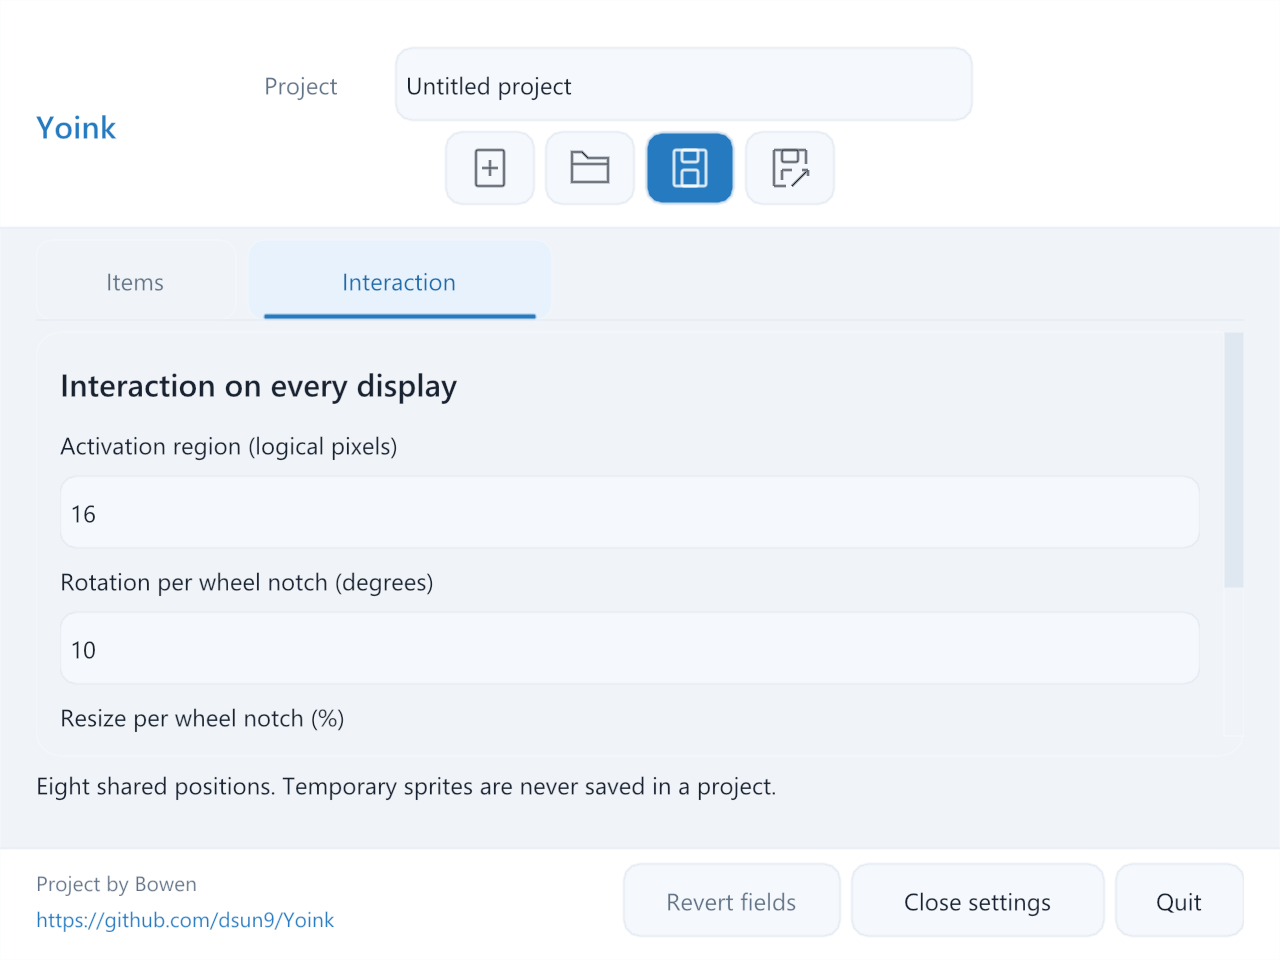
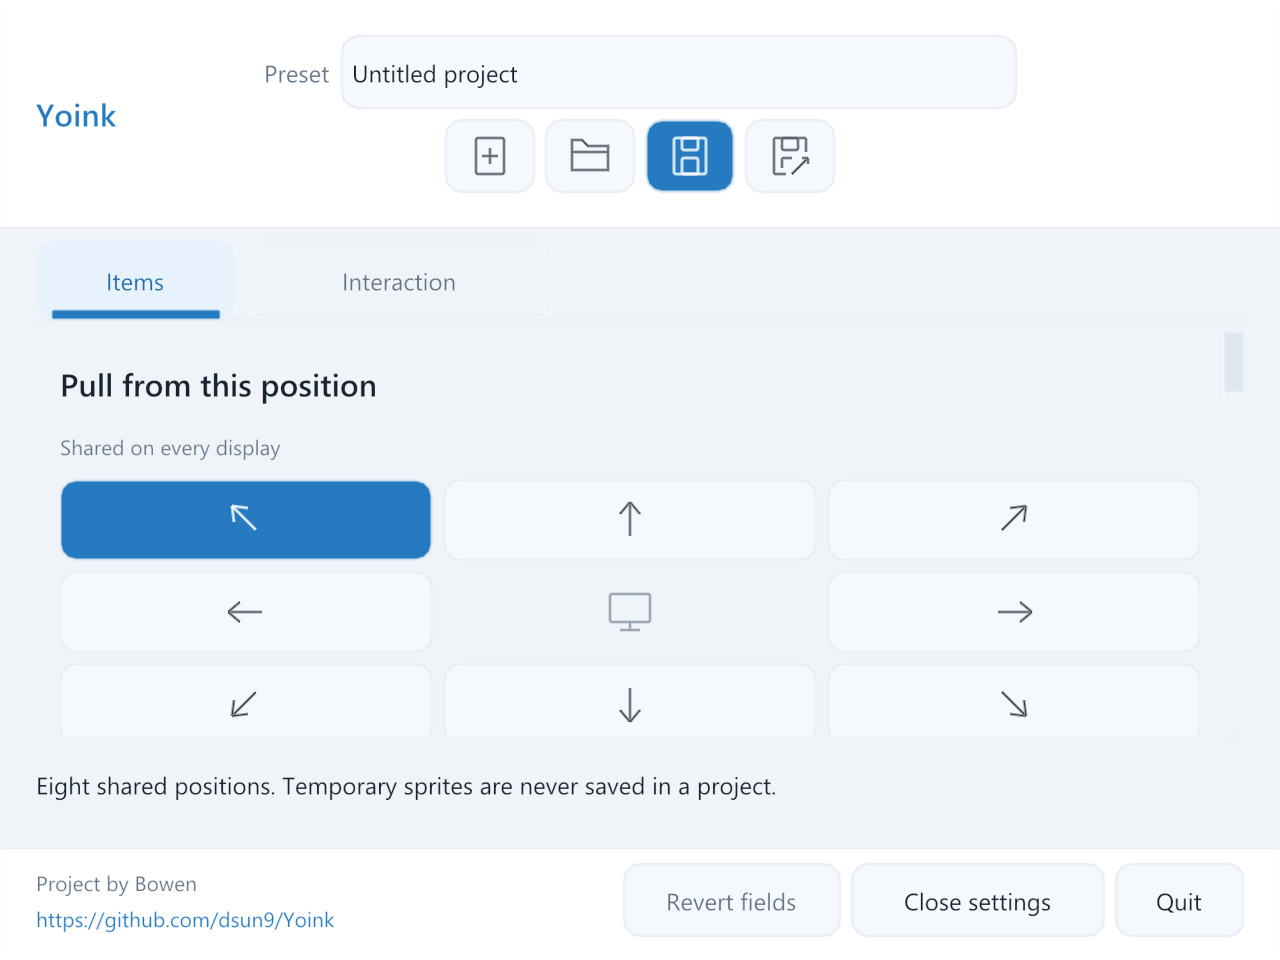
Refine preset toolbar and tab focus styling

diff --git a/tests/platform/test_settings_smoke.c b/tests/platform/test_settings_smoke.c
@@ -1992,6 +1992,57 @@ static void hidden_chrome_diagnostics(void) {
   pp_app_destroy(app); app = NULL;
   puts("PASS footer remains visible and draft recovery clickable with name error, Unicode notice and page errors at minimum size across three scales.");
 }
+static void check_tab_edges(SDL_Surface *surface, PPRect bounds) {
+  double sx = surface->w / settings->backend->width;
+  double sy = surface->h / settings->backend->height;
+  const PPVec2 probes[] = {
+      {bounds.x + bounds.w / 2, bounds.y + .5},
+      {bounds.x + .5, bounds.y + bounds.h / 2},
+      {bounds.x + bounds.w - .5, bounds.y + bounds.h / 2}};
+  for (int edge = 0; edge < 3; edge++) {
+    Uint8 r, g, b, a;
+    CHECK(SDL_ReadSurfacePixel(surface, (int)(probes[edge].x * sx),
+        (int)(probes[edge].y * sy), &r, &g, &b, &a));
+    printf("Tab edge %d: RGB=%u/%u/%u\n", edge, r, g, b);
+    CHECK(!(b > r + 80 && g > r + 40));
+  }
+}
+static void check_toolbar_alignment(SDL_Surface *surface, PPRect name,
+                                    PPRect first, PPRect last) {
+  double sx = surface->w / settings->backend->width;
+  double sy = surface->h / settings->backend->height;
+  Uint8 r, g, b, a;
+  int header_bottom = (int)(2 * sy);
+  while (header_bottom < surface->h) {
+    CHECK(SDL_ReadSurfacePixel(surface, (int)(8 * sx), header_bottom,
+                              &r, &g, &b, &a));
+    if (r < 252 || g < 252 || b < 252) break;
+    header_bottom++;
+  }
+  /* Measure the visible label's ink, rather than assuming a fixed label box. */
+  int label_left = surface->w, label_right = -1;
+  for (int y = (int)(name.y * sy); y < (name.y + name.h) * sy; y++)
+    for (int x = (int)(120 * sx); x < name.x * sx; x++) {
+      CHECK(SDL_ReadSurfacePixel(surface, x, y, &r, &g, &b, &a));
+      if (r < 180 && g < 190 && b < 210) {
+        if (x < label_left) label_left = x;
+        if (x > label_right) label_right = x;
+      }
+    }
+  CHECK(label_right >= label_left);
+  double top_padding = name.y;
+  double bottom_padding = header_bottom / sy - (last.y + last.h);
+  double label_gap = name.x - (label_right + 1) / sx;
+  double action_gap = first.x - (name.x + name.w);
+  printf("Toolbar: top/bottom padding=%.1f/%.1f, label gap=%.1f, action gap=%.1f\n",
+         top_padding, bottom_padding, label_gap, action_gap);
+  CHECK(fabs(top_padding - bottom_padding) <= 1);
+  CHECK(top_padding >= 12);
+  CHECK(label_gap >= 4 && label_gap <= 10);
+  if (first.y == name.y) CHECK(action_gap >= 4 && action_gap <= 10);
+  double group_right = first.y == name.y ? last.x + last.w : name.x + name.w;
+  CHECK(fabs((label_left / sx + group_right) / 2 - settings->backend->width / 2) <= 2);
+}
 static void hidden_settings_chrome(void) {
   CHECK(pp_app_create(&app, &(PPAppOptions){"", false}, &error));
   const float scales[] = {1, 1.5f, 2};
@@ -2005,6 +2056,8 @@ static void hidden_settings_chrome(void) {
     hidden_settle();
     for (int page = 0; page < 2; page++) {
       hidden_click(page ? "tab-interaction" : "tab-items"); hidden_settle();
+      pp_ui_focus(settings->backend, page ? "tab-interaction" : "tab-items");
+      hidden_settle();
       char name[96];
       snprintf(name, sizeof(name), "settings-chrome-%s-%s-%d", size_names[size],
                page ? "interaction" : "items", (int)(scales[density] * 100));
@@ -2020,13 +2073,6 @@ static void hidden_settings_chrome(void) {
       CHECK(pp_ui_control_rect(settings->backend, "quit", &quit));
       printf("Chrome %s: project y=%.0f, tabs w=%.0f/%.0f, footer w=%.0f/%.0f/%.0f\n",
              size_names[size], project.y, items.w, interaction.w, revert.w, close.w, quit.w);
-      CHECK(project.y >= 20);
-      /* Include the visible Project prefix and dirty-marker space in the
-       * top-row extent. Wrapped icons must share that row's center. */
-      double group_left = project.x - 66;
-      double group_right = first.y == project.y ? last.x + last.w
-                                               : project.x + project.w + 22;
-      CHECK(fabs((group_left + group_right) / 2 - sizes[size][0] / 2.0) <= 2);
       CHECK(project.w <= 550);
       if (first.y > project.y)
         CHECK(fabs((first.x + last.x + last.w) / 2 - sizes[size][0] / 2.0) <= 2);
@@ -2047,6 +2093,9 @@ static void hidden_settings_chrome(void) {
        * into the strip rather than drawing an ordinary button border. */
       PPRect selected = page ? interaction : items;
       PPRect inactive = page ? items : interaction;
+      check_tab_edges(surface, selected);
+      check_tab_edges(surface, inactive);
+      check_toolbar_alignment(surface, project, first, last);
       Uint8 r, g, b, a;
       CHECK(SDL_ReadSurfacePixel(surface,
           (int)((selected.x + selected.w / 2) * surface->w / settings->backend->width),
@@ -2069,6 +2118,15 @@ static void hidden_settings_chrome(void) {
       CHECK(trailing_ink);
       SDL_DestroySurface(surface);
       pp_ui_focus(settings->backend, page ? "tab-items" : "tab-interaction");
+      hidden_settle();
+      char focused_name[112];
+      snprintf(focused_name, sizeof(focused_name), "%s-focused", name);
+      capture(focused_name);
+      snprintf(path, sizeof(path), PP_SMOKE_OUTPUT "/%s.bmp", focused_name);
+      surface = SDL_LoadBMP(path);
+      CHECK(surface);
+      check_tab_edges(surface, inactive);
+      SDL_DestroySurface(surface);
       hidden_key(PP_KEY_ENTER, 0); hidden_settle();
       CHECK(settings->page == (page ? PP_SETTINGS_ITEMS : PP_SETTINGS_INTERACTION));
       CHECK(!settings->failed);
@@ -2077,7 +2135,7 @@ static void hidden_settings_chrome(void) {
   pp_settings_destroy(settings); settings = NULL;
   }
   pp_app_destroy(app); app = NULL;
-  puts("PASS centered padded project group, tab appearance/keyboard switching and complete linked credit beside right-aligned footer at four sizes and three scales.");
+  puts("PASS centered compact preset group, borderless focused tabs/keyboard switching and complete linked credit beside right-aligned footer at four sizes and three scales.");
 }
 static void hidden_compact_toolbar(void) {
   CHECK(pp_app_create(&app, &(PPAppOptions){"", false}, &error));

diff --git a/src/ui/project_actions.c b/src/ui/project_actions.c
@@ -184,10 +184,22 @@ void pp_project_actions(PPSettings *settings) {
   float row_height = pp_ui_theme.row_height;
   float padding = pp_ui_theme.control;
   float spacing = pp_ui_theme.compact;
+  const struct nk_user_font *font = ctx->style.font;
+  const char *label = "Preset";
+  float label_width = ceilf(font->width(font->userdata, font->height, label,
+                                      (int)strlen(label))) + 2 * ctx->style.text.padding.x;
+  bool dirty = pp_app_dirty(settings->app);
+  float marker_width = dirty ? ceilf(font->width(font->userdata, font->height, "*", 1)) +
+                                  2 * ctx->style.text.padding.x : 0;
+  float marker_space = dirty ? spacing + marker_width : 0;
+  float actions_width = 4 * 44 + 3 * spacing;
   float group_height = row_height + (wrapped ? row_height + spacing : 0);
   nk_layout_space_begin(ctx, NK_STATIC, group_height + 2 * padding, 8);
-  float toolbar_height = nk_layout_space_to_screen(ctx, nk_vec2(0, 0)).y +
-                         group_height + 2 * padding;
+  float origin_y = nk_layout_space_to_screen(ctx, nk_vec2(0, 0)).y;
+  float toolbar_height = origin_y + group_height + 2 * padding;
+  /* The painted header starts at the window edge, above the layout's inset.
+   * Center in that entire header rather than adding the inset twice. */
+  float group_y = (toolbar_height - group_height) / 2 - origin_y;
   struct nk_command_buffer *canvas = nk_window_get_canvas(ctx);
   struct nk_rect clip = canvas->clip;
   nk_push_scissor(canvas, nk_rect(0, 0, ui->width, ui->height));
@@ -196,16 +208,17 @@ void pp_project_actions(PPSettings *settings) {
   nk_stroke_line(canvas, 0, toolbar_height, ui->width,
                   toolbar_height, 1, pp_ui_theme.border);
   nk_push_scissor(canvas, clip);
-  nk_layout_space_push(ctx, nk_rect(0, padding + (group_height - row_height) / 2,
+  nk_layout_space_push(ctx, nk_rect(0, group_y + (group_height - row_height) / 2,
                                     100, row_height));
   nk_style_push_font(ctx, &ui->heading_font->handle);
   nk_label_colored(ctx, "Yoink", NK_TEXT_LEFT, pp_ui_theme.accent);
   nk_style_pop_font(ctx);
-  nk_layout_space_push(ctx, nk_rect(group_x, padding, 60, row_height));
-  nk_label_colored(ctx, "Project", NK_TEXT_LEFT, pp_ui_theme.muted);
-  float name_width = group_width - (wrapped ? 88 : 294);
-  float name_x = group_x + 60 + spacing;
-  nk_layout_space_push(ctx, nk_rect(name_x, padding, name_width, row_height));
+  nk_layout_space_push(ctx, nk_rect(group_x, group_y, label_width, row_height));
+  nk_label_colored(ctx, label, NK_TEXT_LEFT, pp_ui_theme.muted);
+  float name_width = group_width - label_width - spacing - marker_space -
+                     (wrapped ? 0 : spacing + actions_width);
+  float name_x = group_x + label_width + spacing;
+  nk_layout_space_push(ctx, nk_rect(name_x, group_y, name_width, row_height));
   struct nk_rect name_bounds = nk_widget_bounds(ctx);
   if (pp_ui_edit(ui, "project-name", settings->project_name,
                  sizeof(settings->project_name), false, enabled)) {
@@ -219,19 +232,19 @@ void pp_project_actions(PPSettings *settings) {
     else
       settings->name_error[0] = 0;
   }
-  nk_layout_space_push(ctx, nk_rect(name_x + name_width + spacing, padding,
-                                    16, row_height));
-  nk_label_colored(ctx, pp_app_dirty(settings->app) ? "*" : "",
-                   NK_TEXT_LEFT, pp_ui_theme.accent);
+  if (dirty) {
+    nk_layout_space_push(ctx, nk_rect(name_x + name_width + spacing, group_y,
+                                    marker_width, row_height));
+    nk_label_colored(ctx, "*", NK_TEXT_LEFT, pp_ui_theme.accent);
+  }
   pp_ui_tooltip(ui, name_bounds, "project-name",
                 pp_app_dirty(settings->app) ? "Unsaved changes"
                 : *pp_app_path(settings->app) ? "Project saved"
                                              : "Not saved to a file; no unsaved edits");
   bool actions_enabled = pp_settings_action_enabled(settings);
-  float actions_width = 4 * 44 + 3 * spacing;
   float actions_x = wrapped ? (width - actions_width) / 2
                             : group_x + group_width - actions_width;
-  float actions_y = padding + (wrapped ? row_height + spacing : 0);
+  float actions_y = group_y + (wrapped ? row_height + spacing : 0);
   nk_layout_space_push(ctx, nk_rect(actions_x, actions_y, 44, row_height));
   if (pp_ui_icon_button(ui, "new", PP_UI_ICON_NEW, "New", "New (Ctrl+N)",
                         actions_enabled, false))

diff --git a/src/ui/backend.c b/src/ui/backend.c
@@ -743,8 +743,8 @@ static void focus_outline(PPUIBackend *ui, struct nk_rect bounds,
     nk_stroke_rect(nk_window_get_canvas(&ui->context), bounds,
                    pp_ui_theme.control_radius, 2, pp_ui_theme.accent);
 }
-bool pp_ui_button(PPUIBackend *ui, const char *id, const char *label,
-                  bool enabled) {
+static bool button(PPUIBackend *ui, const char *id, const char *label,
+                    bool enabled, bool outline) {
   enabled = enabled && (!ui->popup_id || ui->in_popup);
   struct nk_rect bounds;
   bool focused = control(ui, id, label, enabled, false, &bounds);
@@ -760,11 +760,16 @@ bool pp_ui_button(PPUIBackend *ui, const char *id, const char *label,
   if (!enabled)
     nk_widget_disable_end(&ui->context);
   ui->context.style.button = saved;
-  focus_outline(ui, bounds, focused);
+  if (outline)
+    focus_outline(ui, bounds, focused);
   bool activated = enabled && (clicked || (focused && ui->activate));
   if (activated)
     ui->activate = false;
   return activated;
+}
+bool pp_ui_button(PPUIBackend *ui, const char *id, const char *label,
+                  bool enabled) {
+  return button(ui, id, label, enabled, true);
 }
 bool pp_ui_tooltip(PPUIBackend *ui, struct nk_rect bounds, const char *id,
                    const char *text) {
@@ -867,12 +872,18 @@ bool pp_ui_tab(PPUIBackend *ui, const char *id, const char *label,
   ctx->style.button.active = nk_style_item_color(pp_ui_theme.selection);
   ctx->style.button.text_normal = selected ? pp_ui_theme.accent_hover : pp_ui_theme.muted;
   ctx->style.button.text_hover = ctx->style.button.text_active = pp_ui_theme.accent_hover;
-  bool clicked = pp_ui_button(ui, id, label, enabled);
+  bool clicked = button(ui, id, label, enabled, false);
   ctx->style.button = saved;
-  if (selected)
+  bool focused = enabled && ui->keyboard_focus && pp_ui_focused(ui, id) &&
+                 (!ui->popup_id || ui->in_popup);
+  if (selected || focused) {
+    float thickness = selected ? 3 : 1;
+    if (focused) thickness += 2;
     nk_fill_rect(nk_window_get_canvas(ctx),
-                 nk_rect(bounds.x + 8, bounds.y + bounds.h - 3, bounds.w - 16, 3),
+                 nk_rect(bounds.x + 8, bounds.y + bounds.h - thickness,
+                         bounds.w - 16, thickness),
                  1, enabled ? pp_ui_theme.accent : pp_ui_theme.muted);
+  }
   return clicked;
 }
 bool pp_ui_edit(PPUIBackend *ui, const char *id, char *value, int capacity,

diff --git a/DESIGN.md b/DESIGN.md
@@ -81,8 +81,8 @@ design now includes these requirements:
   tray and window titles, current launch instructions and distribution names
   adopt that name. Existing `.pointy` projects and remembered preferences remain
   compatible.
-- The project toolbar aligns the app name, project label, name field and action
-  buttons vertically. New, Open, Save and Save as use equal-width icon buttons
+- The project toolbar aligns the app name, visible Preset label, name field and
+  action buttons vertically. New, Open, Save and Save as use equal-width icon buttons
   with tooltips on hover and keyboard focus. Unsaved changes appear as an
   asterisk beside the displayed project name, outside the stored name.
 - The eight-position selector is a regular three-by-three grid with a monitor
@@ -205,10 +205,12 @@ requiring hover to discover full information.
 | Dialog | `src/ui/project_actions.c` | Save/Discard/Cancel policy | App confirmation; required OS file chooser | settings_smoke Escape, focus, actual file chooser |
 
 Project actions use equal-width 44 by 36 logical-unit drawn icon buttons.
-The Project label, name field, dirty marker and actions form one centered group,
-capped at 760 logical units. The header adds 12 units of vertical padding above
-and below the group. Actions share the project-name field's vertical alignment
-and wrap into a centered second row below 780 units of content width. Save uses the blue
+The visible Preset label, name field, dirty marker and actions form one centered
+group, capped at 760 logical units. The header adds balanced vertical space
+above and below the group. The label and name field use compact six-unit spacing;
+the action group uses the same spacing beside the field on wide windows. Actions
+share the project-name field's vertical alignment and wrap into a centered second
+row below 780 units of content width. Save uses the blue
 primary style with a contrasting inset focus marker. Hover, pressed, disabled
 and keyboard focus states come from the
 shared backend. Full action names and shortcuts appear on pointer hover or
@@ -219,8 +221,9 @@ the editable value; project name and filename remain independent.
 
 Items and Interaction use compact tabs aligned to the left of a shared baseline.
 The selected tab has a pale blue fill and blue lower edge; inactive tabs blend
-into the canvas. The existing keyboard focus, error markers and input ordering
-apply to both tabs.
+into the canvas. Keyboard focus adds to the lower indicator and never draws a
+top or side border. The existing error markers and input ordering apply to both
+tabs.
 
 The white footer places Revert fields, Close settings and Quit in a compact
 group on the right. On the left, Project by Bowen appears above the complete

diff --git a/docs/testing/pr28-settings-layout.md b/docs/testing/pr28-settings-layout.md
@@ -2,12 +2,20 @@
 
 Verified on Windows on 2026-10-13 against the native SDL3/OpenGL/Nuklear renderer.
 
-The Project label, editable name, dirty marker and four project actions now form
-one centered group with vertical padding. Narrow windows center the wrapped
-action row below the name. Items and Interaction use compact tabs with a shared
-baseline and a blue selected edge. The footer groups Revert fields, Close
-settings and Quit on the right, and credits Project by Bowen with the complete
+The visible Preset label, editable name, dirty marker and four project actions
+now form one centered group with balanced vertical padding and compact six-unit
+gaps. Narrow windows center the wrapped action row below the name. Items and
+Interaction use compact tabs with a shared baseline and a blue selected edge;
+keyboard focus stays on that lower edge without top or side borders. The footer
+groups Revert fields, Close settings and Quit on the right, and credits Project by Bowen with the complete
 `https://github.com/dsun9/Yoink` link on the left.
+
+The follow-up native-renderer pass measures 18/17 logical units of toolbar
+breathing room at ordinary and minimum sizes, six to seven units between the
+Preset label and name field, and six units between the field and wide-window
+actions. It exercises ordinary, minimum, narrow and wide windows at 100%, 150%
+and 200% UI scales. Focused tabs are checked at their top and side edges, and
+the keyboard activation path remains covered.
 
 ## Reproduction and verification
 

diff --git a/docs/superpowers/specs/2026-10-13-yoink-menu-redesign.md b/docs/superpowers/specs/2026-10-13-yoink-menu-redesign.md
@@ -154,10 +154,12 @@ short lists and stays within its existing 340 by 360 logical-unit maximum.
 
 ### Project toolbar and Settings navigation
 
-- The 2026-10-13 layout follow-up centers the Project label, editable name,
-  dirty marker and action icons as one bounded group, with vertical padding.
+- The 2026-10-13 layout follow-up centers the visible Preset label, editable
+  name, dirty marker and action icons as one bounded group, with balanced
+  vertical padding and compact six-unit gaps around the name field.
   Narrow windows keep the wrapped action row centered below the name row.
-  Items and Interaction use compact tab styling instead of full-width buttons.
+  Items and Interaction use compact tab styling instead of full-width buttons;
+  their keyboard focus cue is a lower indicator with no top or side border.
   Footer actions form a compact right-aligned group; the left side credits
   Project by Bowen and links to `https://github.com/dsun9/Yoink`.
 - New, Open, Save and Save as have equal-width icon buttons, approximately
